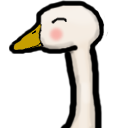
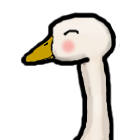
Add first version of secret duck

Changed region(s): [[0.0625, 0.0, 0.8438, 1.0]]

diff --git a/public/secret_duck.js b/public/secret_duck.js
@@ -54,29 +54,40 @@ secretDuck.find("img").click(() => {
                 })
                 break;
             case 3:
+                secretDuck.find("img").attr("src", "ankka_scream.png")
                 moveSecretDuck([{pos:-20, time:50}], () => {
                     showSpeechBubble("KVAAK!", 35, 1000, () => {
-                        moveSecretDuck([{pos:-40, time:200}], () => {
+                        secretDuck.find("img").attr("src", "ankka.png")
+                        moveSecretDuck([{pos:-60, time:400}], () => {
                             secretDuckReady = true;                                                    
                         })
                     });
                 })
                 break;
             case 4:
-                showSpeechBubble("Hei ystävä", 25, 1000, () => {
-                    secretDuckReady = true;
+                moveSecretDuck([{pos:-40, time:200}], () => {
+                    showSpeechBubble("Hei ystävä", 25, 1000, () => {
+                        moveSecretDuck([{pos:-60, time:200}], () => {
+                            secretDuckReady = true;
+                        })
+                    })
                 })
                 break;
             case 5:
-                showSpeechBubble("Minkä takia hanhilla on pitkä kaula?", 20, 4000, () => {
-                    secretDuckReady = true;
-                })
-                break;
-            
-            case 6:
-                    showSpeechBubble("Jos vesi sattuisi nousemaan, ne eivät huku.", 20, 4000, () => {
+                moveSecretDuck([{pos:-40, time:200}], () => {
+                    showSpeechBubble("Minkä takia hanhilla on pitkä kaula?", 20, 3000, () => {
                         secretDuckReady = true;
                     })
+                })
+                break;
+            case 6:
+            
+            case 5:
+                showSpeechBubble("Jos vesi sattuisi nousemaan, ne eivät huku.", 20, 3000, () => {
+                        moveSecretDuck([{pos:-60, time:200}], () => {
+                            secretDuckReady = true;
+                        })
+                })
                 break;
         }
     }

diff --git a/public/style.css b/public/style.css
@@ -273,12 +273,19 @@ div#twitter .tweet .hashtag {
     color:#3B3026;
 }
 
+div#info .at::before {
+    content:"@";
+}
+
 
 
 div#secret-duck {
     position: fixed;
     bottom:-120px;
     right:0px;
+
+
+    display:none;
 }
 
 div#secret-duck img{
